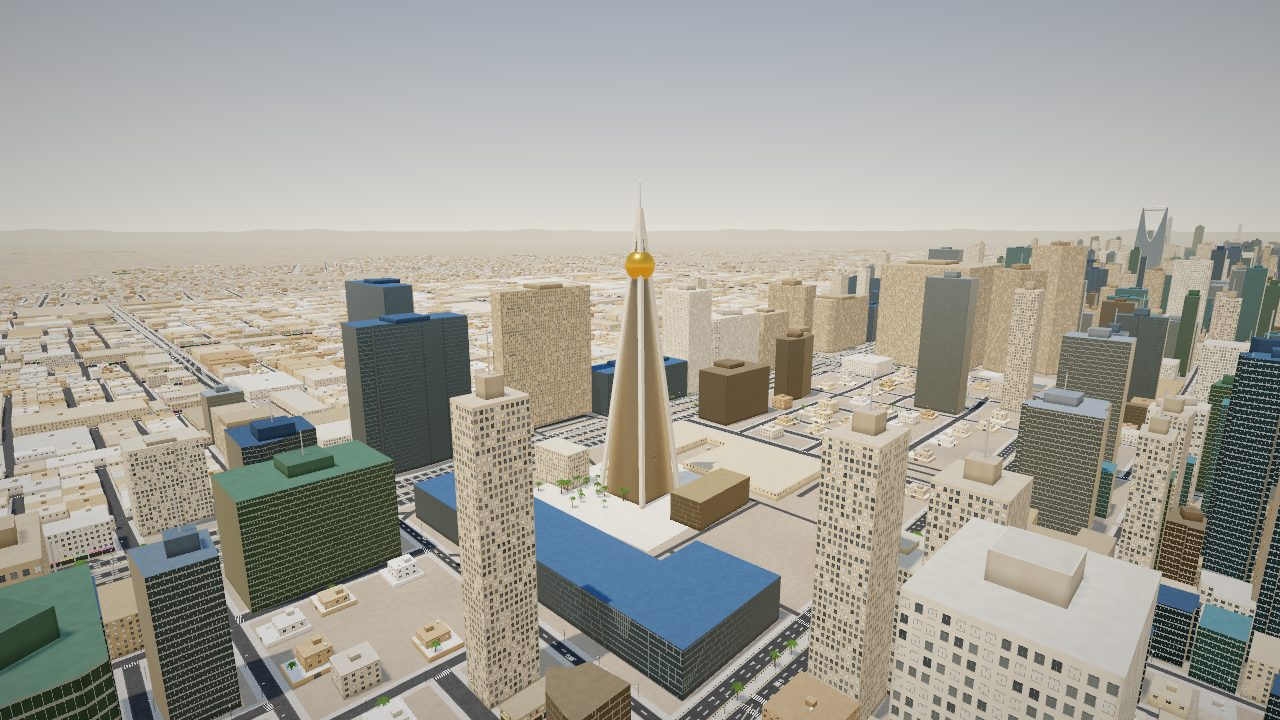
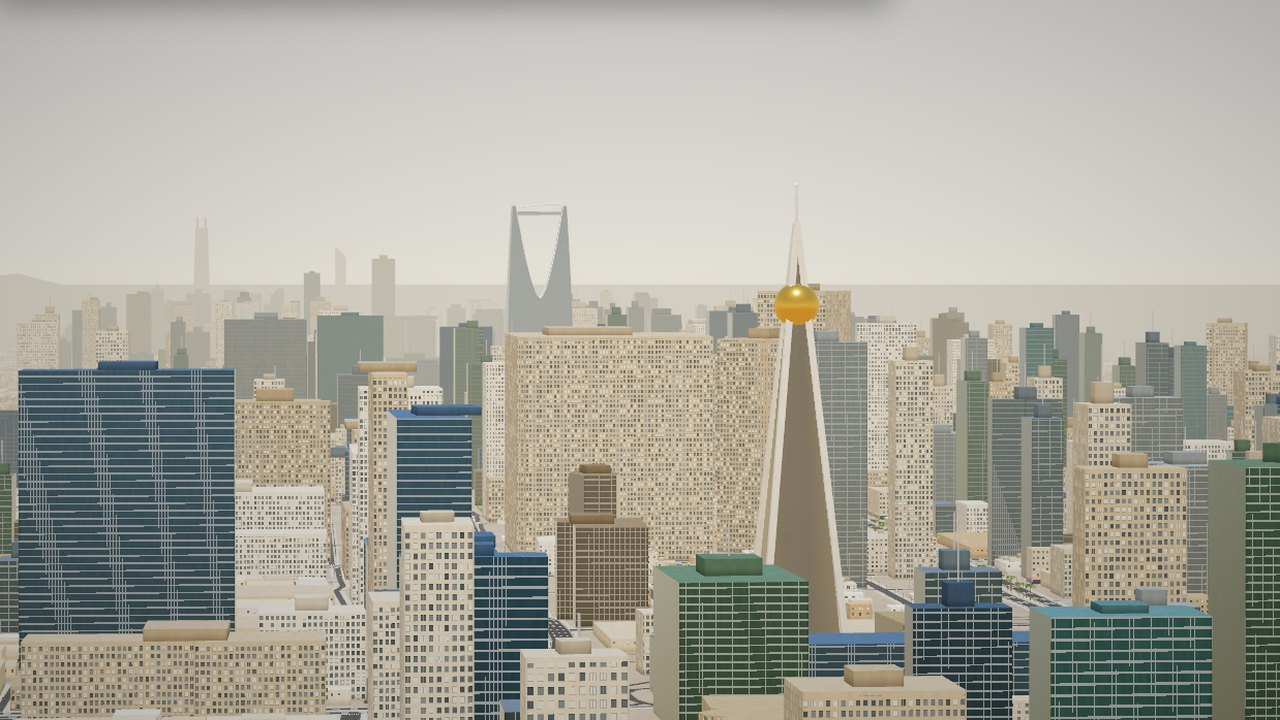
A new Al Faisaliah picture in which Kingdom Centre is clearly visible
The old shot was taken too close to Al Faisaliah, so Kingdom Centre, 2.5 km behind it, was a speck on the horizon. The new one uses a long lens from the south, so both towers stand side by side as in photos of the Riyadh skyline.

Claude-Session: https://claude.ai/code/session_01Eh1LwrbtD3cHFNVJVR85Ve

diff --git a/README.md b/README.md
@@ -112,7 +112,7 @@ Narration uses the browser's own speech voices, so the voices available depend o
 | **Qasr Al-Hokm** and the Grand Mosque at night · قصر الحكم وجامع الإمام تركي ليلاً | **Souq Al-Zal** after dark · سوق الزل ليلاً |
 | <img src="docs/redpalace.jpg" alt="The Red Palace with its white trim, portico and palm garden"> | <img src="docs/night.jpg" alt="Driving the Land Cruiser on King Fahd Road at night"> |
 | **The Red Palace** in its garden · القصر الأحمر | **King Fahd Road at night**, with street and building lights · طريق الملك فهد ليلاً |
-| <img src="docs/faisaliah.jpg" alt="Al Faisaliah Tower with Kingdom Centre behind it at noon"> | <img src="docs/library.jpg" alt="King Fahd National Library, a cube of white fabric diamonds around the old domed library"> |
+| <img src="docs/faisaliah.jpg" alt="Al Faisaliah Tower and its golden globe, with Kingdom Centre and its sky bridge behind, at noon"> | <img src="docs/library.jpg" alt="King Fahd National Library, a cube of white fabric diamonds around the old domed library"> |
 | **Al Faisaliah** and Kingdom Centre at noon · برج الفيصلية وبرج المملكة ظهراً | **King Fahd National Library** · مكتبة الملك فهد الوطنية |
 
 **On a phone · على الجوال:** the guided tour with narration, the guide with shopping and food, the tourist panel with prayer times, and road guidance with the driving pedals.
